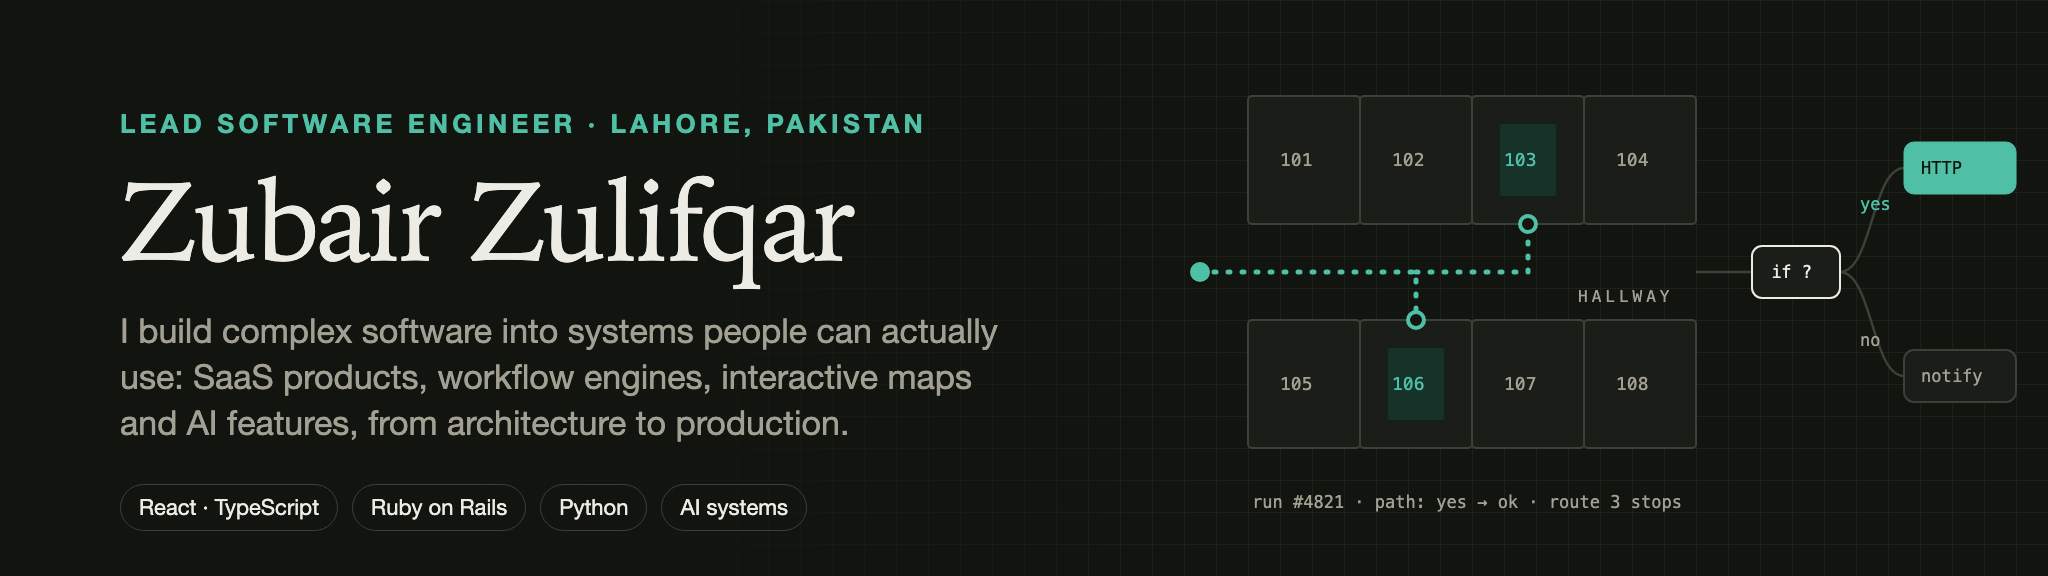
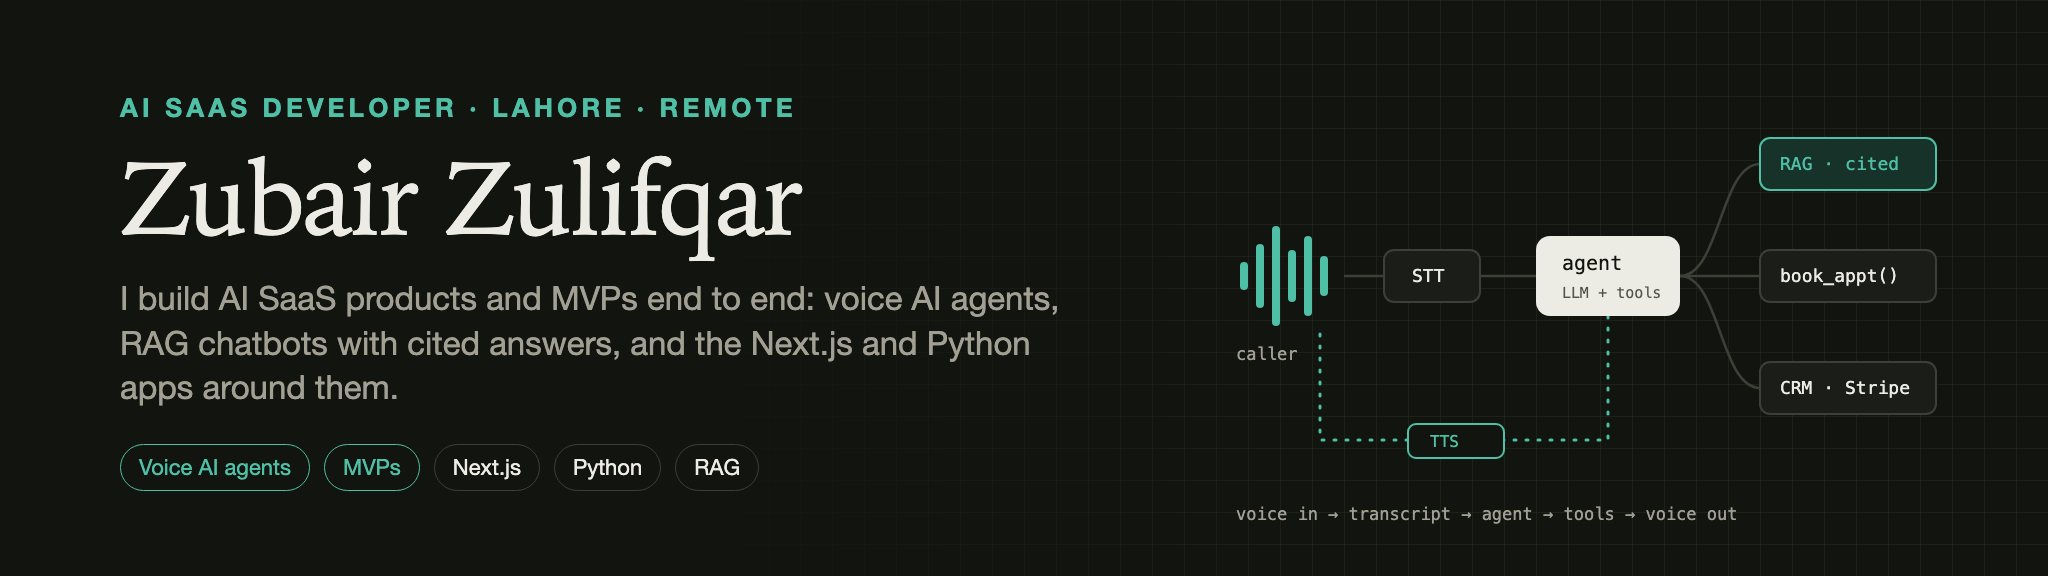
Reposition profile for AI SaaS, voice AI agents and MVP work

diff --git a/header-src/header.html b/header-src/header.html
@@ -5,21 +5,22 @@
 <style>
   :root {
     --paper: #f6f4ee; --ink: #17160f; --muted: #5d5a4f; --line: #dad6ca; --line-strong: #c3beb0;
-    --accent: #0f6e5d; --accent-soft: #dbeae4; --warn: #a4561a; --node: #ffffff;
+    --accent: #0f6e5d; --accent-soft: #dbeae4; --node: #ffffff;
   }
   body.dark {
     --paper: #12140f; --ink: #ecebe4; --muted: #a29f93; --line: #2a2c25; --line-strong: #3d4036;
-    --accent: #4fbfa5; --accent-soft: #173229; --warn: #d9925a; --node: #1b1e18;
+    --accent: #4fbfa5; --accent-soft: #173229; --node: #1b1e18;
   }
   html, body { margin: 0; width: 2048px; height: 576px; overflow: hidden; }
   body { background: var(--paper); color: var(--ink); font-family: "Helvetica Neue", Helvetica, Arial, sans-serif; position: relative; }
   .grid { position: absolute; inset: 0; }
-  .text { position: absolute; left: 120px; top: 108px; width: 960px; }
+  .text { position: absolute; left: 120px; top: 92px; width: 1000px; }
   .eyebrow { font-size: 26px; letter-spacing: 0.16em; text-transform: uppercase; color: var(--accent); font-weight: 600; }
-  h1 { font-family: "New York", "Iowan Old Style", Georgia, serif; font-weight: 500; font-size: 112px; line-height: 1; margin: 26px 0 0; letter-spacing: -0.02em; }
-  .tag { font-size: 34px; line-height: 1.35; color: var(--muted); margin-top: 30px; max-width: 900px; }
-  .chips { margin-top: 38px; display: flex; gap: 14px; flex-wrap: wrap; }
+  h1 { font-family: "New York", "Iowan Old Style", Georgia, serif; font-weight: 500; font-size: 104px; line-height: 1; margin: 22px 0 0; letter-spacing: -0.02em; }
+  .tag { font-size: 33px; line-height: 1.35; color: var(--muted); margin-top: 26px; max-width: 940px; }
+  .chips { margin-top: 34px; display: flex; gap: 14px; flex-wrap: wrap; }
   .chip { font-size: 22px; padding: 9px 18px; border: 1.5px solid var(--line-strong); border-radius: 999px; color: var(--ink); }
+  .chip.hl { border-color: var(--accent); color: var(--accent); }
   svg text { font-family: "SF Mono", Menlo, monospace; }
 </style>
 </head>
@@ -31,63 +32,60 @@
     </pattern>
     <linearGradient id="fade" x1="0" x2="1">
       <stop offset="0" stop-color="var(--paper)" stop-opacity="1"/>
-      <stop offset="0.5" stop-color="var(--paper)" stop-opacity="0.9"/>
+      <stop offset="0.55" stop-color="var(--paper)" stop-opacity="0.92"/>
       <stop offset="1" stop-color="var(--paper)" stop-opacity="0"/>
     </linearGradient>
   </defs>
   <rect width="2048" height="576" fill="url(#g)"/>
-  <rect width="1300" height="576" fill="url(#fade)"/>
+  <rect width="1320" height="576" fill="url(#fade)"/>
 
-  <!-- floorplate: corridor and units -->
-  <g fill="var(--node)" stroke="var(--line-strong)" stroke-width="2">
-    <rect x="1248" y="96" width="112" height="128" rx="4"/>
-    <rect x="1360" y="96" width="112" height="128" rx="4"/>
-    <rect x="1472" y="96" width="112" height="128" rx="4"/>
-    <rect x="1584" y="96" width="112" height="128" rx="4"/>
-    <rect x="1248" y="320" width="112" height="128" rx="4"/>
-    <rect x="1360" y="320" width="112" height="128" rx="4"/>
-    <rect x="1472" y="320" width="112" height="128" rx="4"/>
-    <rect x="1584" y="320" width="112" height="128" rx="4"/>
+  <!-- voice in: waveform -->
+  <g fill="var(--accent)">
+    <rect x="1240" y="262" width="8" height="28" rx="4"/>
+    <rect x="1256" y="244" width="8" height="64" rx="4"/>
+    <rect x="1272" y="226" width="8" height="100" rx="4"/>
+    <rect x="1288" y="250" width="8" height="52" rx="4"/>
+    <rect x="1304" y="236" width="8" height="80" rx="4"/>
+    <rect x="1320" y="256" width="8" height="40" rx="4"/>
   </g>
-  <rect x="1500" y="124" width="56" height="72" rx="3" fill="var(--accent-soft)"/>
-  <rect x="1388" y="348" width="56" height="72" rx="3" fill="var(--accent-soft)"/>
-  <g font-size="18" fill="var(--muted)">
-    <text x="1280" y="166">101</text><text x="1392" y="166">102</text><text x="1504" y="166" fill="var(--accent)">103</text><text x="1616" y="166">104</text>
-    <text x="1280" y="390">105</text><text x="1392" y="390" fill="var(--accent)">106</text><text x="1504" y="390">107</text><text x="1616" y="390">108</text>
-  </g>
-  <text x="1578" y="302" font-size="16" fill="var(--muted)" letter-spacing="4">HALLWAY</text>
+  <text x="1236" y="360" font-size="17" fill="var(--muted)">caller</text>
 
-  <!-- wayfinding route -->
-  <path d="M1200 272 H1416 V320 M1416 272 H1528 V224" fill="none" stroke="var(--accent)" stroke-width="5" stroke-linecap="round" stroke-linejoin="round" stroke-dasharray="2 12"/>
-  <circle cx="1200" cy="272" r="10" fill="var(--accent)"/>
-  <circle cx="1416" cy="320" r="8" fill="var(--paper)" stroke="var(--accent)" stroke-width="4"/>
-  <circle cx="1528" cy="224" r="8" fill="var(--paper)" stroke="var(--accent)" stroke-width="4"/>
-
-  <!-- workflow branch -->
+  <!-- pipeline links -->
   <g stroke="var(--line-strong)" stroke-width="2.5" fill="none">
-    <path d="M1696 272 H1752"/>
-    <path d="M1840 272 C1872 272 1872 168 1904 168"/>
-    <path d="M1840 272 C1872 272 1872 376 1904 376"/>
+    <path d="M1344 276 H1384"/>
+    <path d="M1480 276 H1536"/>
+    <path d="M1680 276 C1720 276 1720 164 1760 164"/>
+    <path d="M1680 276 H1760"/>
+    <path d="M1680 276 C1720 276 1720 388 1760 388"/>
   </g>
-  <g font-size="17">
-    <rect x="1752" y="246" width="88" height="52" rx="10" fill="var(--node)" stroke="var(--ink)" stroke-width="2"/>
-    <text x="1771" y="278" fill="var(--ink)">if ?</text>
-    <rect x="1904" y="142" width="112" height="52" rx="10" fill="var(--accent)" stroke="var(--accent)"/>
-    <text x="1921" y="174" fill="var(--paper)">HTTP</text>
-    <rect x="1904" y="350" width="112" height="52" rx="10" fill="var(--node)" stroke="var(--line-strong)" stroke-width="2"/>
-    <text x="1921" y="382" fill="var(--muted)">notify</text>
-    <text x="1860" y="210" fill="var(--accent)">yes</text>
-    <text x="1860" y="346" fill="var(--muted)">no</text>
+  <path d="M1608 304 V440 H1320 V330" fill="none" stroke="var(--accent)" stroke-width="3" stroke-dasharray="2 10" stroke-linecap="round"/>
+
+  <g font-size="18">
+    <rect x="1384" y="250" width="96" height="52" rx="10" fill="var(--node)" stroke="var(--line-strong)" stroke-width="2"/>
+    <text x="1412" y="282" fill="var(--ink)">STT</text>
+
+    <rect x="1536" y="236" width="144" height="80" rx="14" fill="var(--ink)"/>
+    <text x="1562" y="270" fill="var(--paper)" font-size="20">agent</text>
+    <text x="1562" y="298" fill="var(--paper)" font-size="15" opacity="0.7">LLM + tools</text>
+
+    <rect x="1760" y="138" width="176" height="52" rx="10" fill="var(--accent-soft)" stroke="var(--accent)" stroke-width="2"/>
+    <text x="1780" y="170" fill="var(--accent)">RAG · cited</text>
+    <rect x="1760" y="250" width="176" height="52" rx="10" fill="var(--node)" stroke="var(--line-strong)" stroke-width="2"/>
+    <text x="1780" y="282" fill="var(--ink)">book_appt()</text>
+    <rect x="1760" y="362" width="176" height="52" rx="10" fill="var(--node)" stroke="var(--line-strong)" stroke-width="2"/>
+    <text x="1780" y="394" fill="var(--ink)">CRM · Stripe</text>
   </g>
-  <text x="1252" y="508" font-size="17" fill="var(--muted)">run #4821 · path: yes → ok · route 3 stops</text>
+  <rect x="1408" y="424" width="96" height="34" rx="8" fill="var(--paper)" stroke="var(--accent)" stroke-width="2"/>
+  <text x="1430" y="447" font-size="16" fill="var(--accent)">TTS</text>
+  <text x="1236" y="520" font-size="17" fill="var(--muted)">voice in → transcript → agent → tools → voice out</text>
 </svg>
 
 <div class="text">
-  <div class="eyebrow">Lead Software Engineer · Lahore, Pakistan</div>
+  <div class="eyebrow">AI SaaS Developer · Lahore · Remote</div>
   <h1>Zubair Zulifqar</h1>
-  <div class="tag">I build complex software into systems people can actually use: SaaS products, workflow engines, interactive maps and AI features, from architecture to production.</div>
+  <div class="tag">I build AI SaaS products and MVPs end to end: voice AI agents, RAG chatbots with cited answers, and the Next.js and Python apps around them.</div>
   <div class="chips">
-    <span class="chip">React · TypeScript</span><span class="chip">Ruby on Rails</span><span class="chip">Python</span><span class="chip">AI systems</span>
+    <span class="chip hl">Voice AI agents</span><span class="chip hl">MVPs</span><span class="chip">Next.js</span><span class="chip">Python</span><span class="chip">RAG</span>
   </div>
 </div>
 <script>if (location.hash === '#dark') document.body.classList.add('dark');</script>

diff --git a/README.md b/README.md
@@ -1,94 +1,100 @@
 <picture>
   <source media="(prefers-color-scheme: dark)" srcset=".github/assets/header-dark.png">
-  <img src=".github/assets/header-light.png" alt="Zubair Zulifqar, Lead Software Engineer in Lahore. A floorplate with a wayfinding route between units, feeding a workflow node that branches yes and no." width="100%">
+  <img src=".github/assets/header-light.png" alt="Zubair Zulifqar, AI SaaS Developer. A voice agent pipeline: caller audio goes through speech-to-text to an LLM agent that calls RAG, appointment booking and CRM tools, then answers by text-to-speech." width="100%">
 </picture>
 
-## Zubair Zulifqar
+## AI SaaS Developer &nbsp;|&nbsp; Voice AI Agents &nbsp;|&nbsp; MVPs with Next.js, Python & RAG
 
-**Lead Software Engineer** &nbsp;·&nbsp; Pynwheel &nbsp;·&nbsp; Lahore, Pakistan &nbsp;·&nbsp; [zubair-zulfiqar.vercel.app](https://zubair-zulfiqar.vercel.app)
-
-Five years building SaaS products end to end: React/TypeScript frontends over Ruby on Rails and Python
-backends. At EZO I led the workflow engine that replaced single-trigger automation rules and now runs
-millions of executions a day across three products. At Pynwheel I lead the move of a property-tech
-platform from server-rendered Rails to React, with interactive floor maps, plotting and shortest-path
-wayfinding, plus the self-guided tour app built on the same codebase. Since 2022 I've reviewed pull
-requests from 40+ engineers and run about 100 technical interviews. Most of my work starts where the
-obvious solution stopped working.
+I turn an AI product idea into a working SaaS: the voice or chat agent, the retrieval behind it, and the
+real application around it, with sign-in, teams, billing, an admin side, tests and deployment. Five years
+of full-stack engineering, currently **Lead Software Engineer at Pynwheel**, previously the technical lead
+of a workflow engine that runs millions of executions a day.
 
 <p>
-  <img alt="TypeScript" src="https://img.shields.io/badge/TypeScript-17160f?style=flat-square&logo=typescript&logoColor=white"/>
-  <img alt="React" src="https://img.shields.io/badge/React-17160f?style=flat-square&logo=react&logoColor=white"/>
-  <img alt="Next.js" src="https://img.shields.io/badge/Next.js-17160f?style=flat-square&logo=nextdotjs&logoColor=white"/>
-  <img alt="Rails" src="https://img.shields.io/badge/Rails-17160f?style=flat-square&logo=rubyonrails&logoColor=white"/>
-  <img alt="Python" src="https://img.shields.io/badge/Python-17160f?style=flat-square&logo=python&logoColor=white"/>
-  <img alt="PostgreSQL" src="https://img.shields.io/badge/PostgreSQL-17160f?style=flat-square&logo=postgresql&logoColor=white"/>
-  <img alt="Redis" src="https://img.shields.io/badge/Redis-17160f?style=flat-square&logo=redis&logoColor=white"/>
-  <img alt="Docker" src="https://img.shields.io/badge/Docker-17160f?style=flat-square&logo=docker&logoColor=white"/>
-  <img alt="Claude Code" src="https://img.shields.io/badge/Claude_Code-17160f?style=flat-square&logo=anthropic&logoColor=white"/>
+  <a href="https://www.upwork.com/freelancers/~01894c735c70746190"><img alt="Hire me on Upwork" src="https://img.shields.io/badge/Hire_me_on-Upwork-14a800?style=for-the-badge&logo=upwork&logoColor=white"/></a>
+  <a href="https://zubair-zulfiqar.vercel.app"><img alt="Portfolio" src="https://img.shields.io/badge/Portfolio-0f6e5d?style=for-the-badge"/></a>
+  <a href="https://www.linkedin.com/in/zubair-zulfiqar-17413226b/"><img alt="LinkedIn" src="https://img.shields.io/badge/LinkedIn-0a66c2?style=for-the-badge&logo=linkedin&logoColor=white"/></a>
 </p>
 
-### Projects
+### What I build for clients
 
-Full-stack SaaS builds, each with a README that covers architecture, setup and status, and a test suite.
-All run on synthetic data, and each one works locally in mock mode with no credentials.
+| Service | What it includes |
+|---|---|
+| **Voice AI agents** | Receptionists and phone-style assistants that listen, understand and act: speech-to-text, an LLM agent with tool calls (book, look up, update), and natural text-to-speech. Hosted APIs or self-hosted open models. |
+| **AI SaaS MVPs** | From idea to a product people can sign up for: Next.js front end, Python or Node API, PostgreSQL, multi-tenant accounts, roles, Stripe billing and an admin dashboard. |
+| **RAG chatbots and knowledge assistants** | Answers grounded in your documents, websites or database, with citations, a confidence gate for questions they can't answer, and an embeddable widget. |
+| **AI features in an existing product** | Structured LLM outputs, AI agents and automations added to a running app, with human approval where it matters and logs you can audit. |
 
-- **[Othego](https://github.com/Zubair-Zulifqar/Othego)** &nbsp;`TypeScript` `RAG`<br>
-  Customer-support chatbots grounded in a business's own content. An SSRF-hardened crawler, heading-aware chunking, BM25 and vector search merged with Reciprocal Rank Fusion, reranking, and cited answers with a confidence gate. Ships as a 5 kB Shadow-DOM widget, with Stripe billing and passkey sign-in.
-- **[TestFiesta](https://github.com/Zubair-Zulifqar/TestFiesta)** &nbsp;`Vue` `Express` `OpenFGA`<br>
-  Test management for QA teams: repositories, plans, runs and defects. Every organization gets its own PostgreSQL database, and authorization is relationship-based through OpenFGA. Also includes an AI copilot for test design, Jira and GitHub sync, and a CLI that uploads CI results.
+### Featured projects
+
+**Voice AI**
+
+- **DentalVoice AI** &nbsp;`Python` `FastAPI` `React` &nbsp;·&nbsp; *Qubit Labz team project, private repo*<br>
+  A voice receptionist for a dental clinic. Faster-Whisper transcribes the caller, an LLM agent with tool calls resolves dates and books the appointment, and Kokoro answers in a natural voice. The React front end has a live waveform, sign-in and an appointments view. It can run entirely on self-hosted open models.
 - **[Waivs.ai](https://github.com/Zubair-Zulifqar/Waivs-AI)** &nbsp;`Next.js` `Supabase` `Vertex AI`<br>
-  Clinical documentation for surgical teams. A recorded consultation becomes a transcript and then a source-cited draft note, which stays a draft until a clinician approves it. The database enforces that rule as well as the app, and a validator flags invented numbers instead of filling gaps.
+  Voice to clinical notes for surgical teams. Browser recording with crash recovery, Google Speech-to-Text with speaker diarization, then a source-cited draft note from Gemini that a clinician must approve. Version history, word-level diffs and PDF export.
+
+**RAG and AI agents**
+
+- **[Othego](https://github.com/Zubair-Zulifqar/Othego)** &nbsp;`TypeScript` `RAG` `Stripe`<br>
+  An AI support chatbot SaaS. Businesses connect websites, sitemaps and PDFs; Othego crawls, chunks and indexes them, then answers visitors through a 5 kB embeddable widget. Hybrid BM25 and vector search, reranking, cited streaming answers, lead capture, analytics and four Stripe plans.
 - **[Tuck Advisors Platform](https://github.com/Zubair-Zulifqar/Tuck-Advisors-Platform)** &nbsp;`TypeScript` `Python`<br>
-  An M&A advisory platform: a deal CRM, an AI research engine, explainable fit scoring, a CRM automation engine with approval gates, and a Manifest V3 deal workstation. Every AI claim is labelled *sourced*, *assessment* or *unknown*.
+  An AI research and CRM platform for an M&A advisory: an AI research engine, explainable fit scoring, CRM automation with approval gates, and a Chrome extension that works inside LinkedIn and Gmail. Every AI claim is labelled *sourced*, *assessment* or *unknown*.
+- **[SmartPrep](https://github.com/Qubit-Labz/smartprep-ai)** &nbsp;`FastAPI` `Mistral` `WebRTC` &nbsp;·&nbsp; *Qubit Labz team project*<br>
+  A mock-interview simulator. The LLM generates questions from the role a user picks, scores text and video answers, and streams feedback.
+
+**AI SaaS MVPs**
+
+- **[TestFiesta](https://github.com/Zubair-Zulifqar/TestFiesta)** &nbsp;`Vue` `Express` `PostgreSQL`<br>
+  Test management SaaS with an AI copilot that writes test cases from requirements. Each customer gets its own database, with relationship-based permissions, Jira and GitHub sync, and a CLI for CI results.
 - **[StoryHEAT](https://github.com/Zubair-Zulifqar/StoryHEAT)** &nbsp;`Next.js` `Python`<br>
-  Campaign storytelling research. AI drafts narratives from the facts a team supplies, real respondents test them in versioned surveys, and an audience heatmap shows what landed, with confidence intervals and small-cell suppression.
-- **[Authentic Spark](https://github.com/Zubair-Zulifqar/Authentic-Spark)** &nbsp;`Next.js` `Quart`<br>
-  An operations platform for agencies and campaigns: email planning, list buys with de-duplication and suppression, SMS compliance, ad review, QuickBooks invoicing and six schema-bound AI agents, under nine RBAC roles with strict tenant isolation.
+  Campaign message testing: AI drafts narratives from supplied facts, real audiences rate them in surveys, and a heatmap shows what landed. Includes a content assistant that drafts social posts from approved material.
+- **[Authentic Spark](https://github.com/Zubair-Zulifqar/Authentic-Spark)** &nbsp;`Next.js` `Python` `GCP`<br>
+  An all-in-one operations platform for agencies: email planning, list cleaning, SMS compliance, ad review, QuickBooks invoicing and six AI agents with approval steps, deployed on Cloud Run.
 
-### What I've shipped at work
+Each repo has a README covering setup, architecture and status, plus automated tests, and runs locally in a mock mode with no paid API keys needed.
 
-The code is closed source, so here is what each system was and what it had to solve.
+### What you get on a project
 
-**A workflow engine that can branch** &nbsp;·&nbsp; `Rails` `React Flow` `Webhooks`
-> Automation used to be one trigger paired with one sub-trigger. I led the multi-product initiative that
-> replaced it with a node-based engine: branching decision logic, HTTP nodes and webhook triggers, with
-> a run history for every branch. It now runs millions of executions a day across three products.
-> [Case study ↗](https://zubair-zulfiqar.vercel.app/work/workflow-engine)
+- A working product early, then steady progress you can click through, not just status updates.
+- Production basics from the start: authentication, roles, tenant isolation, billing, error handling and logging.
+- AI that is safe to put in front of customers: cited answers, structured outputs, human approval for anything that goes out, and no invented numbers.
+- Clean handover: documented setup, environment templates, Docker, and tests you can run.
 
-**Interactive maps and wayfinding for property tech** &nbsp;·&nbsp; `React` `TypeScript` `Rails` `Capacitor`
-> A Rails product whose property, inventory and map screens had to become an application without the
-> backend becoming a rewrite. Building and floor maps over SVG floor plans, with unit and amenity markers,
-> manual and auto-plotting, hallway detection and shortest-path wayfinding. One front-end codebase serves
-> web, iOS and Android.
-> [Case study ↗](https://zubair-zulfiqar.vercel.app/work/pynwheel-maps)
+### Production experience
 
-**The sync job that took half a day** &nbsp;·&nbsp; `Rails` `MySQL` `Datadog`
-> Device sync took 12 to 15 hours. I profiled it, removed N+1 queries and moved it to batched writes,
-> and now it runs in under an hour.
+- **Lead Software Engineer, Pynwheel** (2026 to now): property-tech SaaS with interactive maps, shortest-path wayfinding and a self-guided tour mobile app on one React/TypeScript codebase.
+- **Senior Software Engineer, EZO** (2023 to 2026): led a workflow engine running millions of executions a day across three products, cut a 12–15 hour device sync to under an hour, and built AI automation that turns production errors into proposed pull requests.
+- AWS Certified Cloud Practitioner &nbsp;·&nbsp; Silver medal, ICPC Asia Topi Regional &nbsp;·&nbsp; BS Software Engineering, PUCIT
 
-**Exceptions that arrive as pull requests** &nbsp;·&nbsp; `Python` `Ollama` `Claude CLI`
-> Production exceptions are classified, given a proposed fix and opened as a pull request, and a review
-> daemon comments on PRs before a human opens the diff. The design work was in the boundaries: what the
-> automation may do alone, and what it must hand to a human.
-> [Case study ↗](https://zubair-zulfiqar.vercel.app/work/engineering-automation)
+### Stack
 
-**Software visibility across 10M+ assets** &nbsp;·&nbsp; `Rails`
-> Flags unused and unauthorized software installs across the enterprise assets AssetSonar tracks.
+<p>
+  <img alt="Next.js" src="https://img.shields.io/badge/Next.js-17160f?style=flat-square&logo=nextdotjs&logoColor=white"/>
+  <img alt="React" src="https://img.shields.io/badge/React-17160f?style=flat-square&logo=react&logoColor=white"/>
+  <img alt="TypeScript" src="https://img.shields.io/badge/TypeScript-17160f?style=flat-square&logo=typescript&logoColor=white"/>
+  <img alt="Python" src="https://img.shields.io/badge/Python-17160f?style=flat-square&logo=python&logoColor=white"/>
+  <img alt="FastAPI" src="https://img.shields.io/badge/FastAPI-17160f?style=flat-square&logo=fastapi&logoColor=white"/>
+  <img alt="Node.js" src="https://img.shields.io/badge/Node.js-17160f?style=flat-square&logo=nodedotjs&logoColor=white"/>
+  <img alt="PostgreSQL" src="https://img.shields.io/badge/PostgreSQL-17160f?style=flat-square&logo=postgresql&logoColor=white"/>
+  <img alt="Supabase" src="https://img.shields.io/badge/Supabase-17160f?style=flat-square&logo=supabase&logoColor=white"/>
+  <img alt="Stripe" src="https://img.shields.io/badge/Stripe-17160f?style=flat-square&logo=stripe&logoColor=white"/>
+  <img alt="OpenAI" src="https://img.shields.io/badge/OpenAI-17160f?style=flat-square&logo=openai&logoColor=white"/>
+  <img alt="Claude" src="https://img.shields.io/badge/Claude-17160f?style=flat-square&logo=anthropic&logoColor=white"/>
+  <img alt="Gemini" src="https://img.shields.io/badge/Gemini-17160f?style=flat-square&logo=googlegemini&logoColor=white"/>
+  <img alt="LangChain" src="https://img.shields.io/badge/LangChain-17160f?style=flat-square&logo=langchain&logoColor=white"/>
+  <img alt="Whisper" src="https://img.shields.io/badge/Whisper_STT-17160f?style=flat-square"/>
+  <img alt="Docker" src="https://img.shields.io/badge/Docker-17160f?style=flat-square&logo=docker&logoColor=white"/>
+  <img alt="Google Cloud" src="https://img.shields.io/badge/Google_Cloud-17160f?style=flat-square&logo=googlecloud&logoColor=white"/>
+  <img alt="AWS" src="https://img.shields.io/badge/AWS-17160f?style=flat-square"/>
+</p>
 
-### Writing
+### Let's build yours
 
-- [Migrating a Rails product to React without rewriting the backend](https://zubair-zulfiqar.vercel.app/writing/rails-to-react-without-rewriting-the-backend): keep the Rails domain, put a JSON boundary in front of it, ship one screen at a time.
-- [Designing workflow engines that can actually branch](https://zubair-zulfiqar.vercel.app/writing/workflow-engines-that-can-branch): run state, typed outputs, and a log that can explain a failure three branches deep.
-- [What production AI agents need beyond prompts](https://zubair-zulfiqar.vercel.app/writing/what-production-ai-agents-need-beyond-prompts): production AI is mostly a boundaries problem.
-- [How I approach performance problems in SaaS systems](https://zubair-zulfiqar.vercel.app/writing/how-i-approach-performance-problems-in-saas): profile first, change the data path second.
-- [Designing complex map interfaces in React](https://zubair-zulfiqar.vercel.app/writing/designing-complex-map-interfaces-in-react): most of the bugs were coordinate systems.
+Have an AI product idea or a voice agent to ship? Send me the brief on
+**[Upwork](https://www.upwork.com/freelancers/~01894c735c70746190)** and I'll reply with how I'd build it
+and a first milestone.
 
-### Also
+[Upwork](https://www.upwork.com/freelancers/~01894c735c70746190) &nbsp;·&nbsp; [Portfolio](https://zubair-zulfiqar.vercel.app) &nbsp;·&nbsp; [LinkedIn](https://www.linkedin.com/in/zubair-zulfiqar-17413226b/) &nbsp;·&nbsp; [Resume (PDF)](https://zubair-zulfiqar.vercel.app/Zubair_Zulfiqar_Resume.pdf)
 
-AWS Certified Cloud Practitioner &nbsp;·&nbsp; Silver medal, ICPC Asia Topi Regional &nbsp;·&nbsp; BS Software Engineering, PUCIT (CGPA 3.80)
-
-### Elsewhere
-
-[Portfolio](https://zubair-zulfiqar.vercel.app) &nbsp;·&nbsp; [LinkedIn](https://www.linkedin.com/in/zubair-zulfiqar-17413226b/) &nbsp;·&nbsp; [Resume (PDF)](https://zubair-zulfiqar.vercel.app/Zubair_Zulfiqar_Resume.pdf) &nbsp;·&nbsp; [zubair03114698669@gmail.com](mailto:zubair03114698669@gmail.com)
-
-<sub>Earlier work, from university: Android, Java, C# and C++. Mostly in the 2021–2024 repos below.</sub>
+<sub>Earlier work, from university: Android, Java, C# and C++, in the 2021–2024 repos below.</sub>
